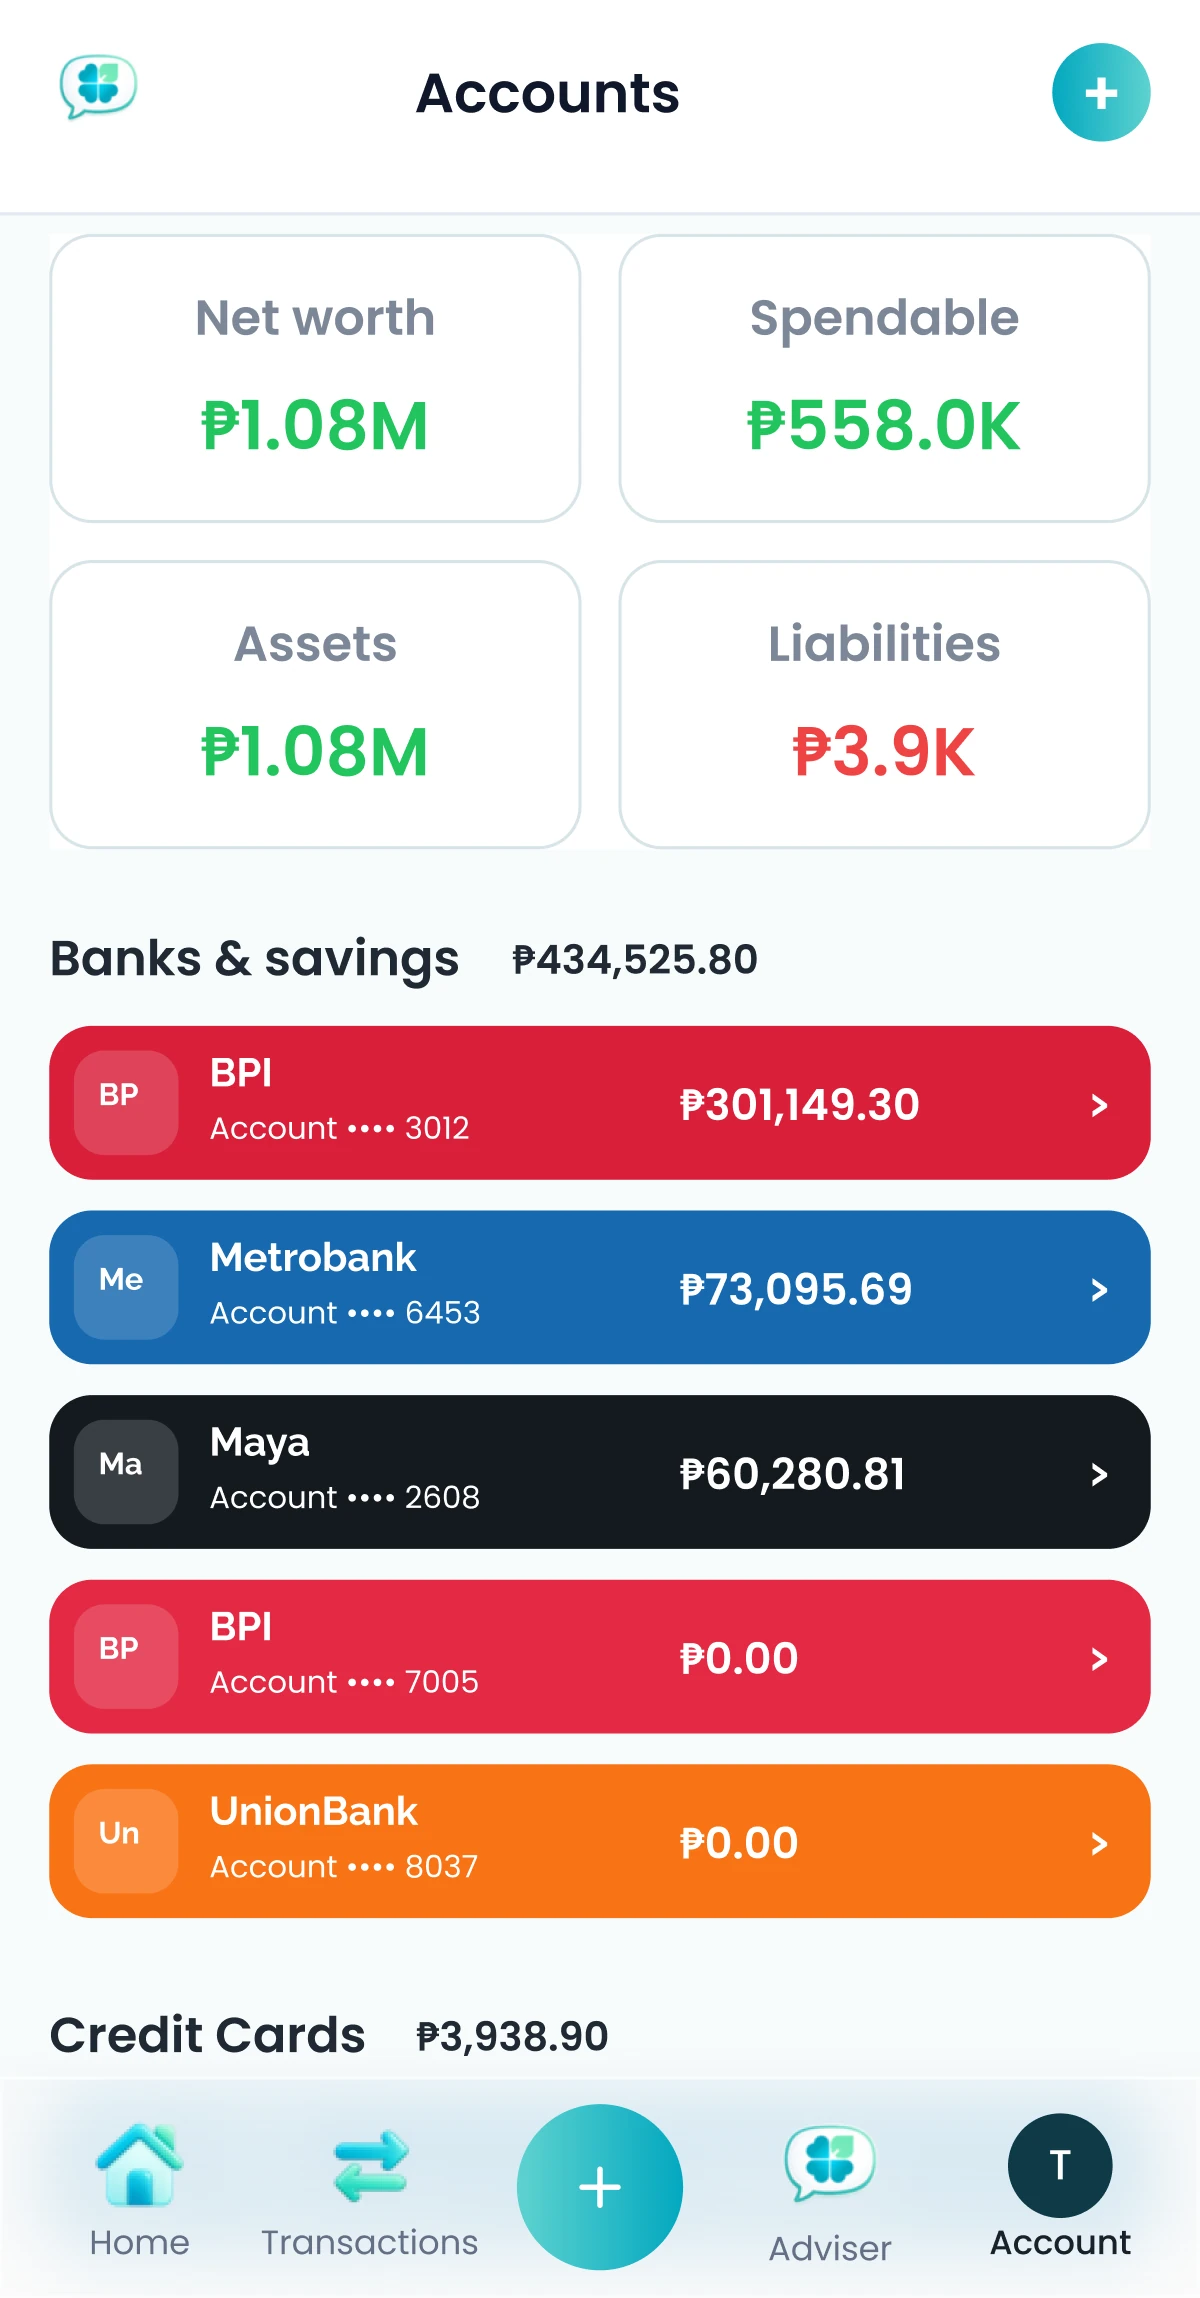
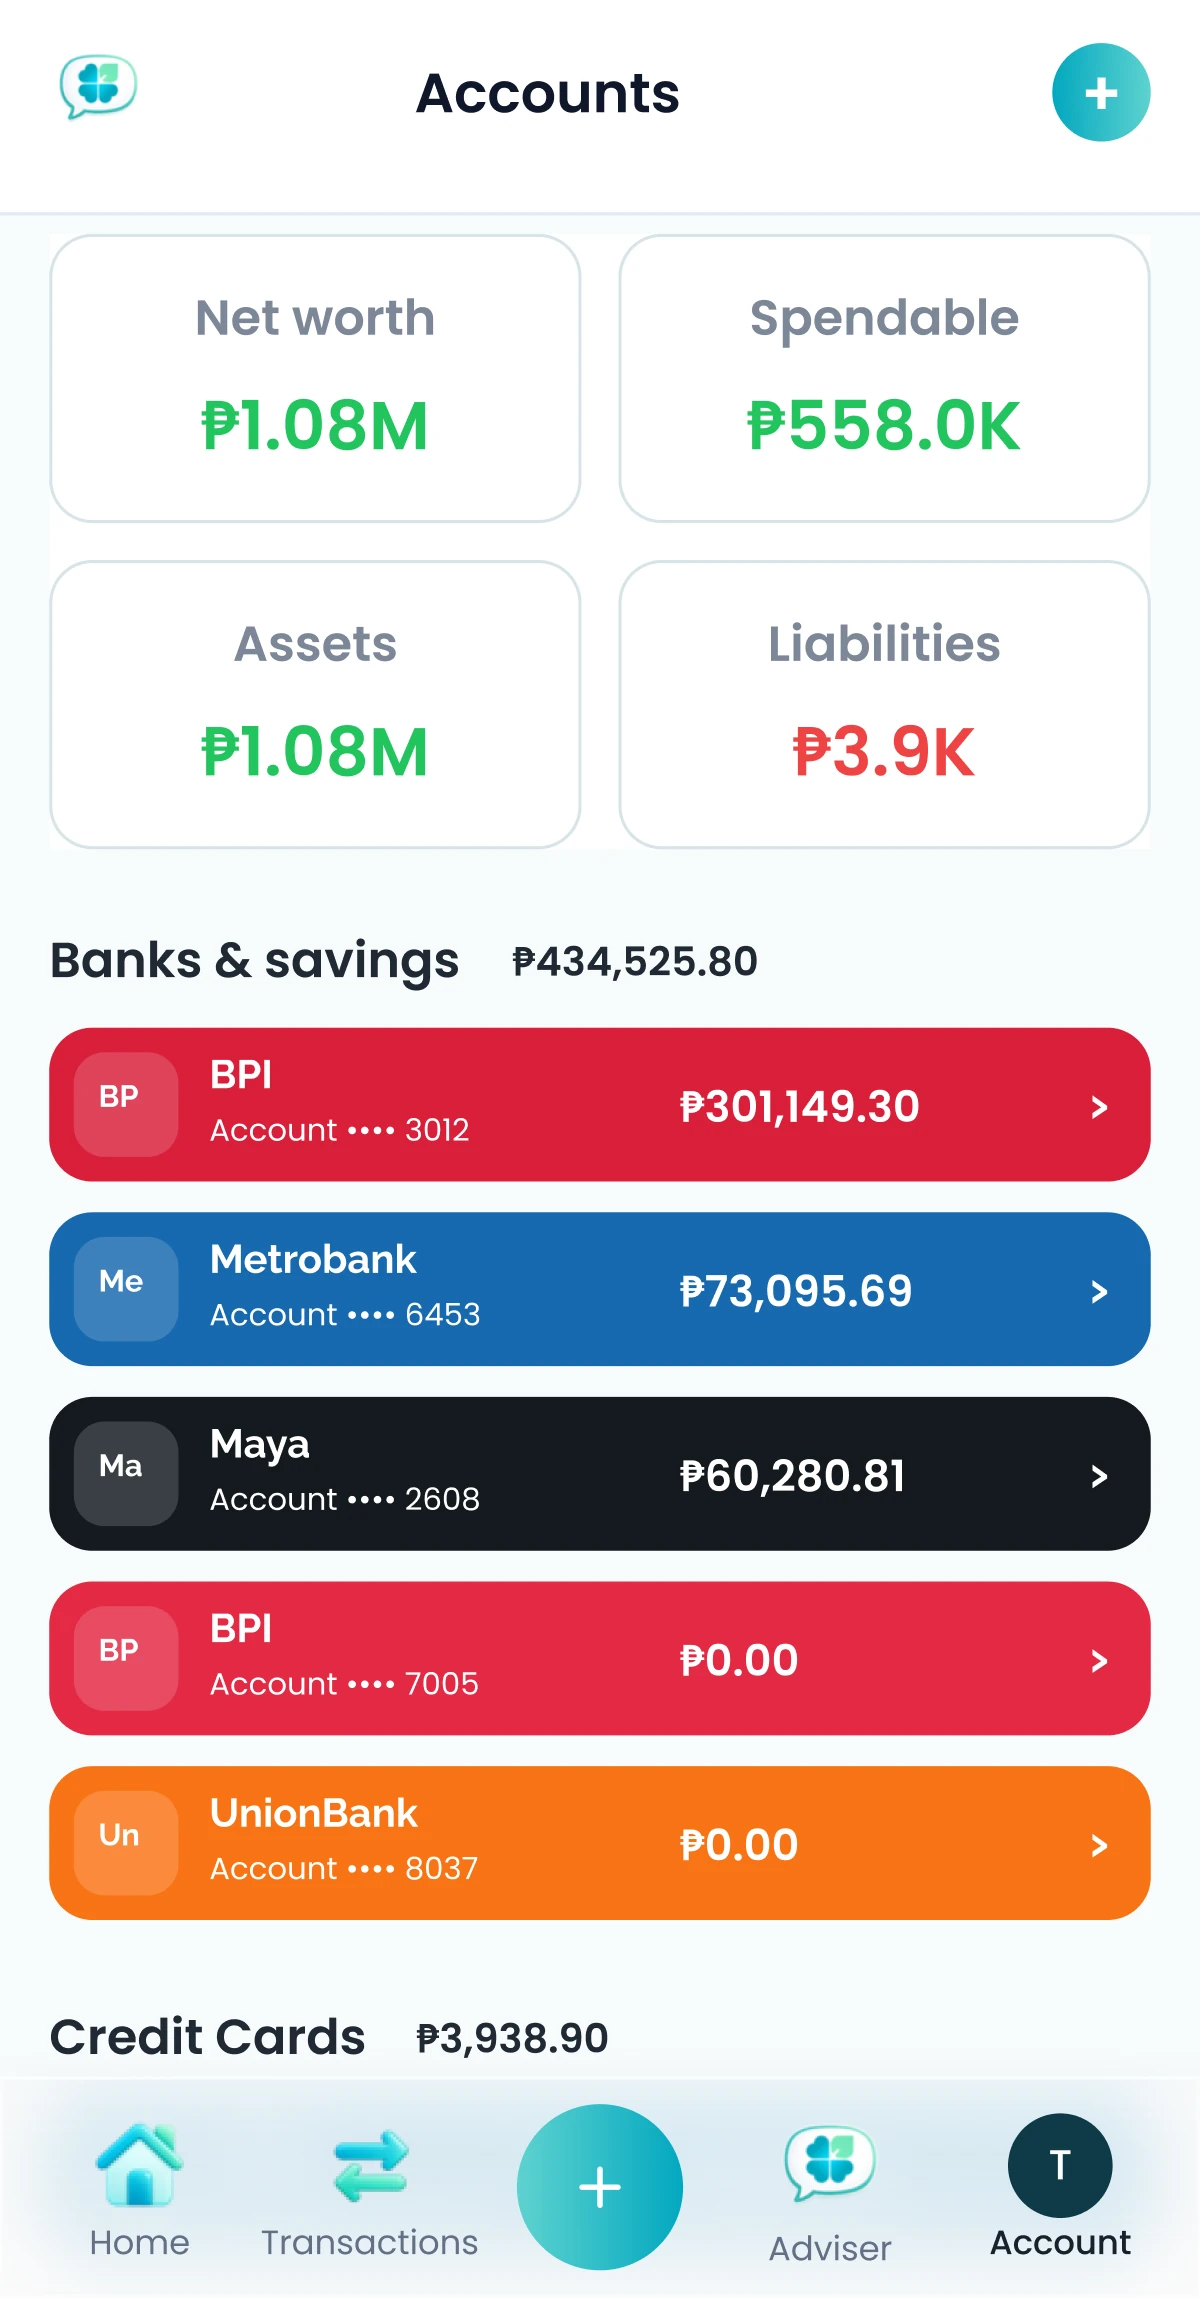
Refresh Accounts and Investments public phone previews

diff --git a/docs/public-phone-refresh-1434-2026-09-13.md b/docs/public-phone-refresh-1434-2026-09-13.md
@@ -1,0 +1,10 @@
+# Latest public phone previews — September 13, 14:34 UTC
+
+Compared all 14 distinct phone displays used by the 23 landing and feature previews with the Figma refresh completed at 14:34:43 UTC in `FNnCmCj90szZAnZ6twMPCy`.
+
+- Accounts and Investments had image changes after the previous export. Their current 3× WebP exports replace the earlier images in all six chapters that reuse them.
+- The other 12 exports were byte-identical to the existing images after encoding with the same settings.
+- Updated the source manifest to the replacement Figma node IDs and recorded the refresh timestamp.
+- Existing page composition, photographs, phone hardware and application behavior are preserved.
+
+Verification passed: all 114 public chapter checks across desktop and mobile widths; all 14 exports validated at 1200×2298; and the full `npm run qa:prepush` release gate, including regressions, type checks, native exports, and the optimized web build.
